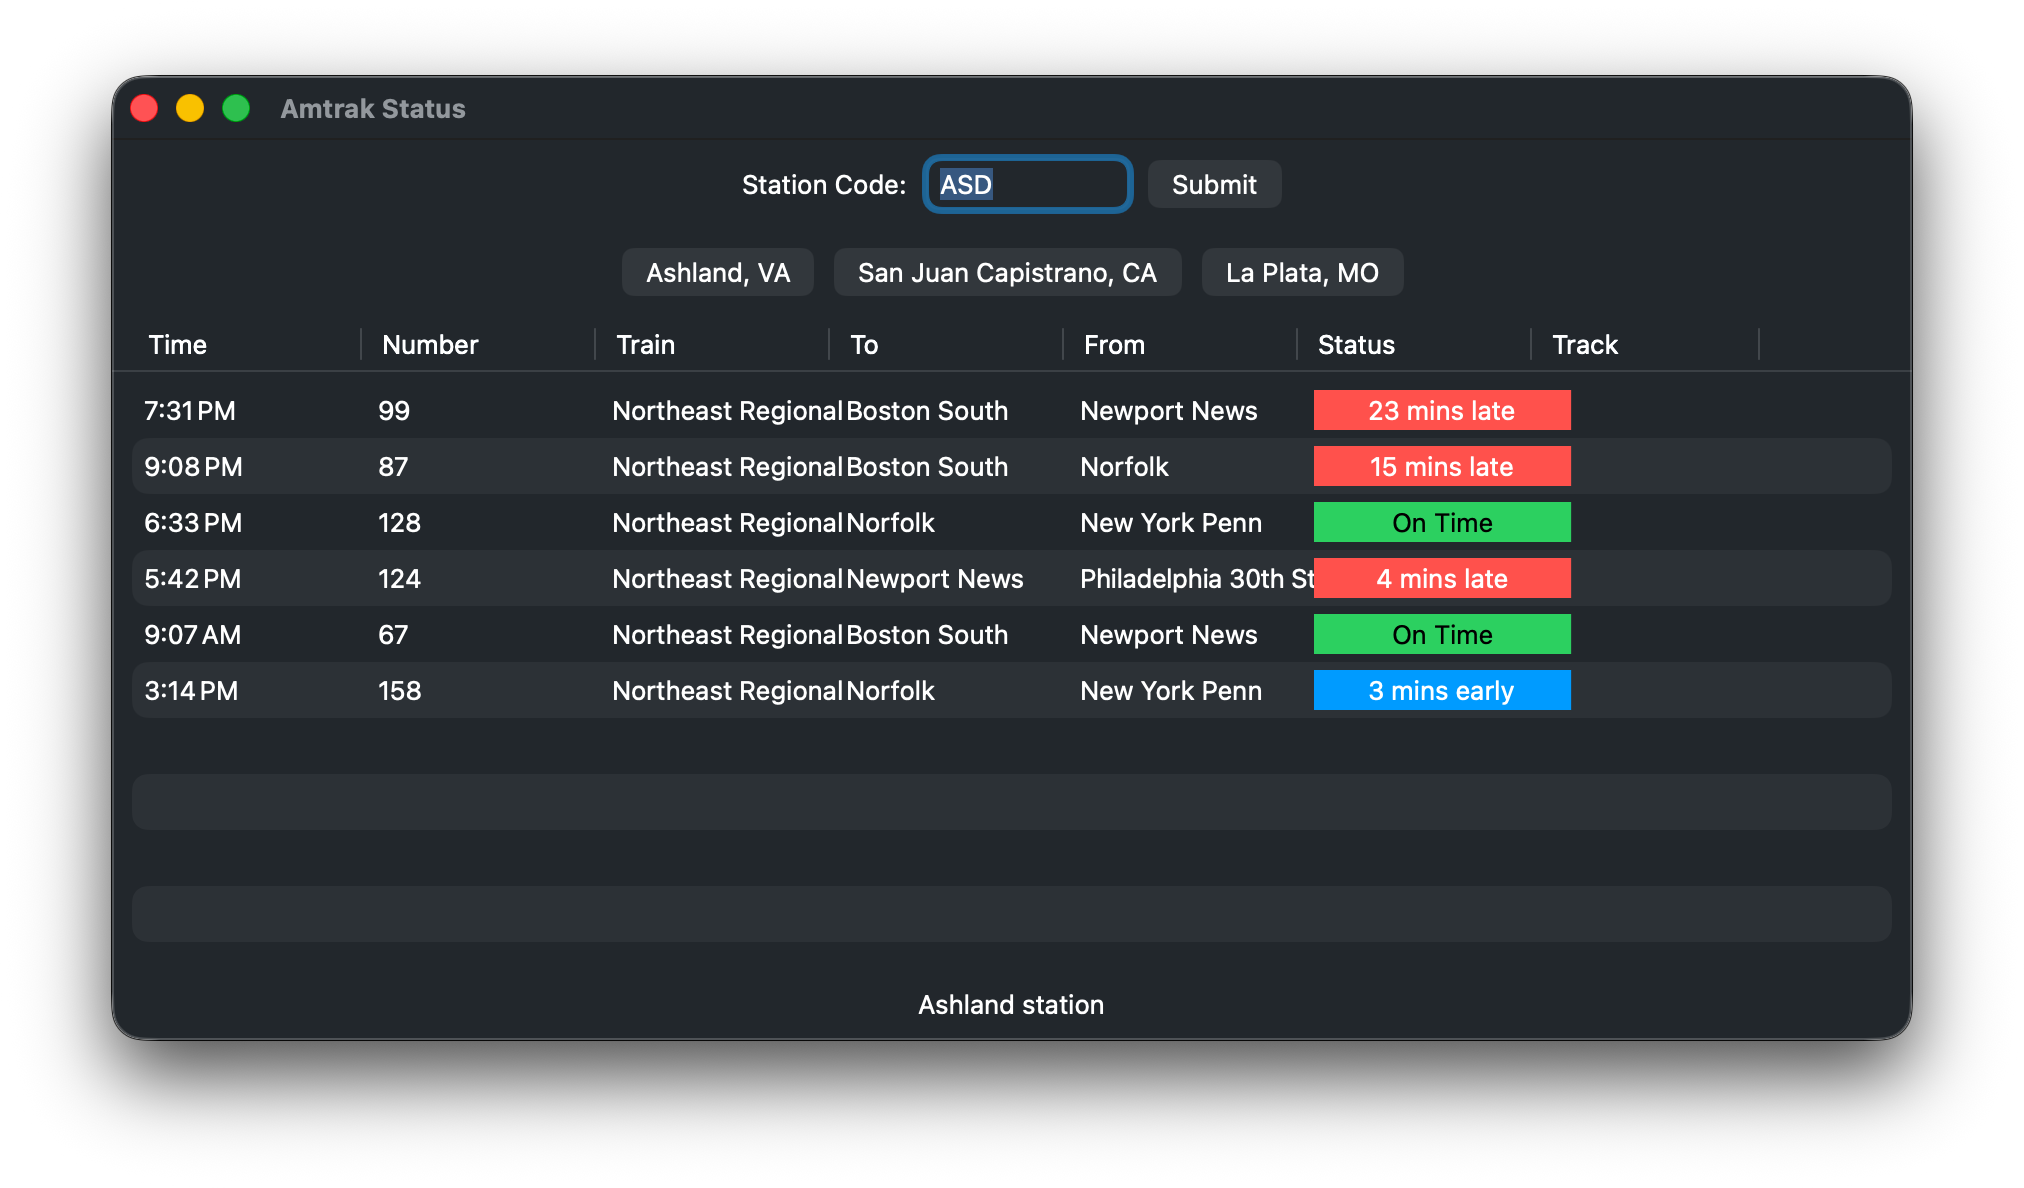
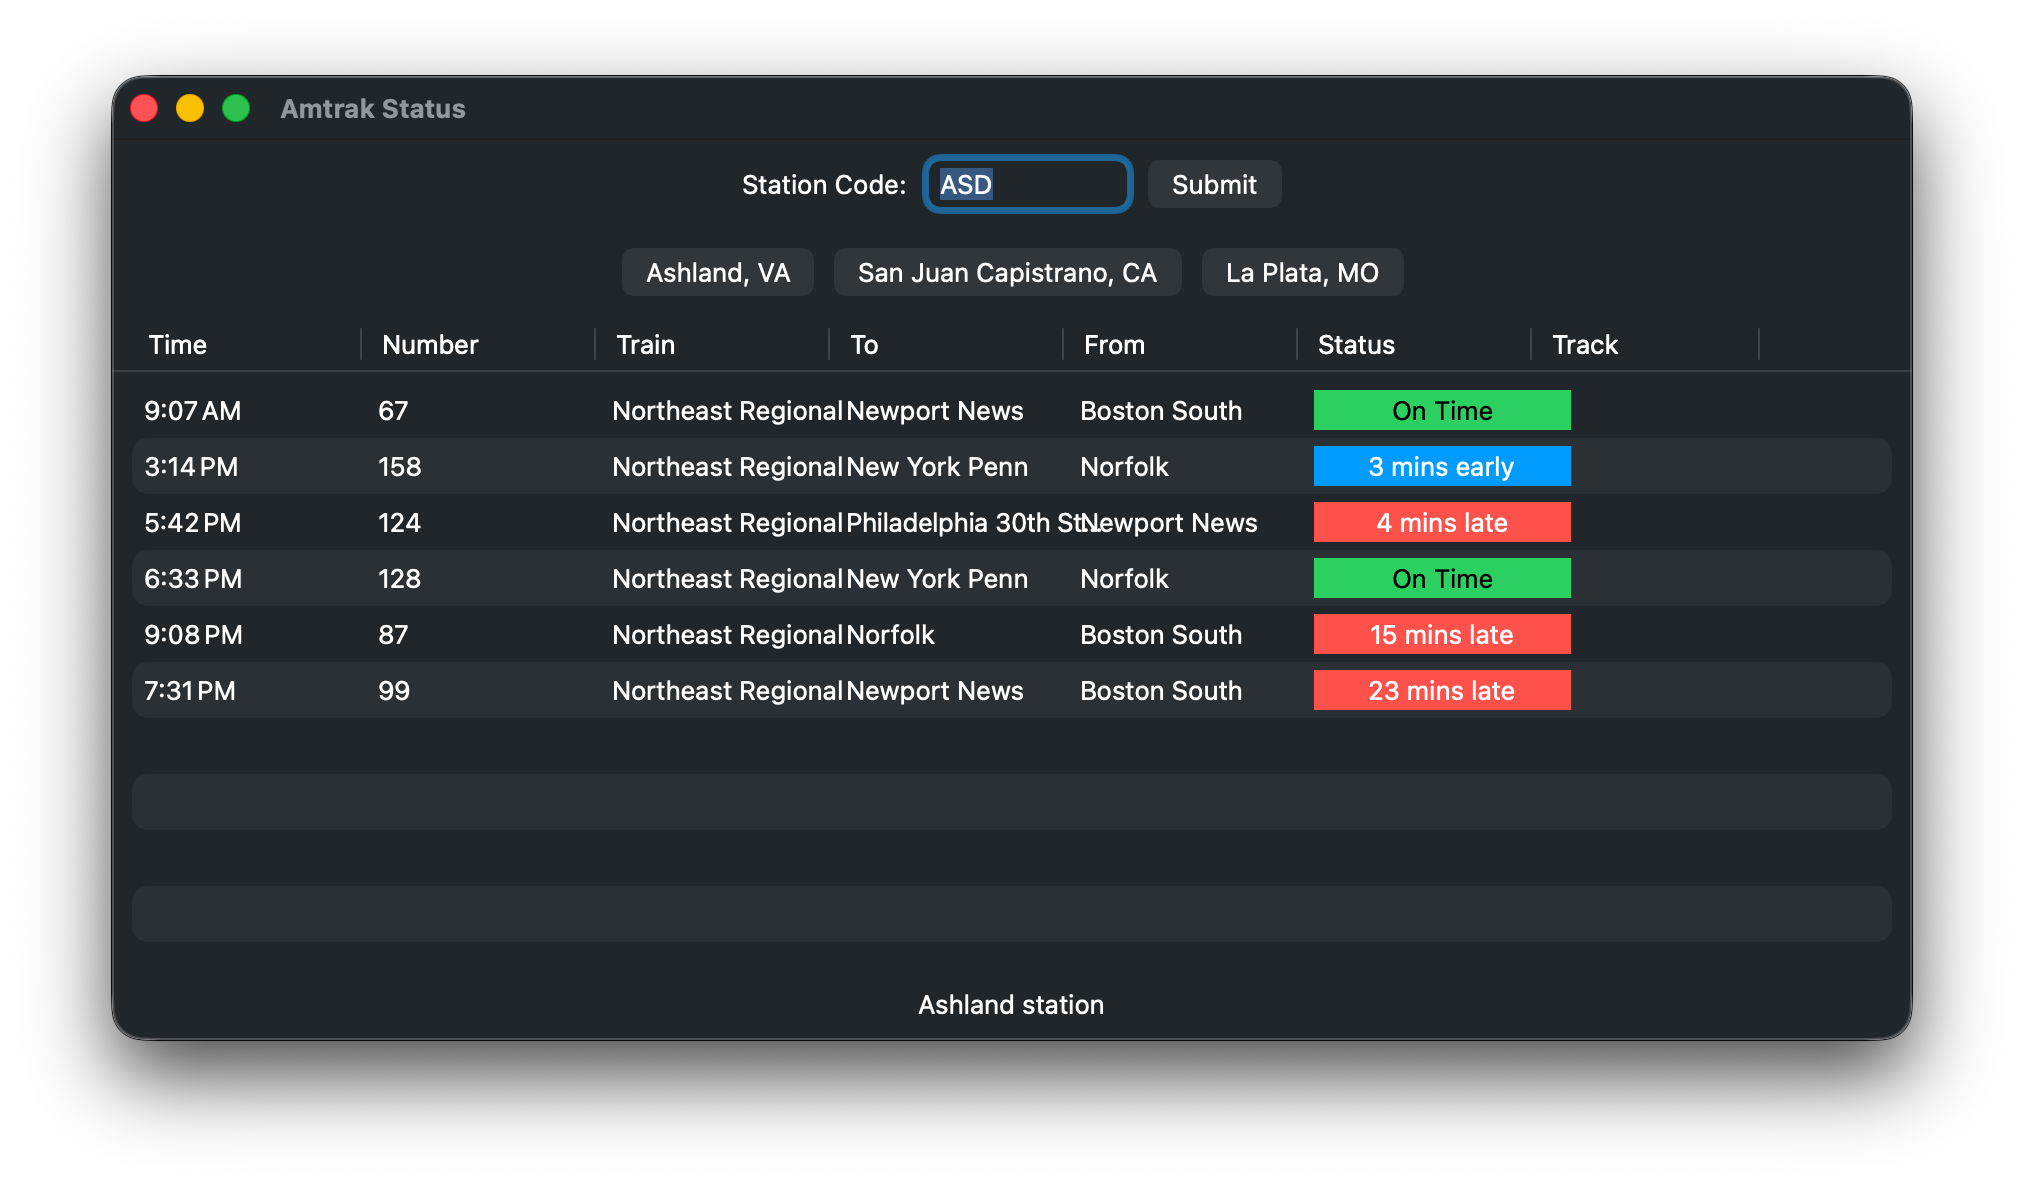
Say cheese

diff --git a/README.md b/README.md
@@ -1,5 +1,6 @@
 <p align="center">
-    <img title="" src="assets/banner.svg" alt="" data-align="center" width="718">
+    <img title="" src="assets/banner.svg" alt="" data-align="center" width="80%">
+    <img title="" src="assets/screenshot.png" alt="" data-align="center" width="70%">
 </p>
           
 ## 🖥 Supported Platforms
